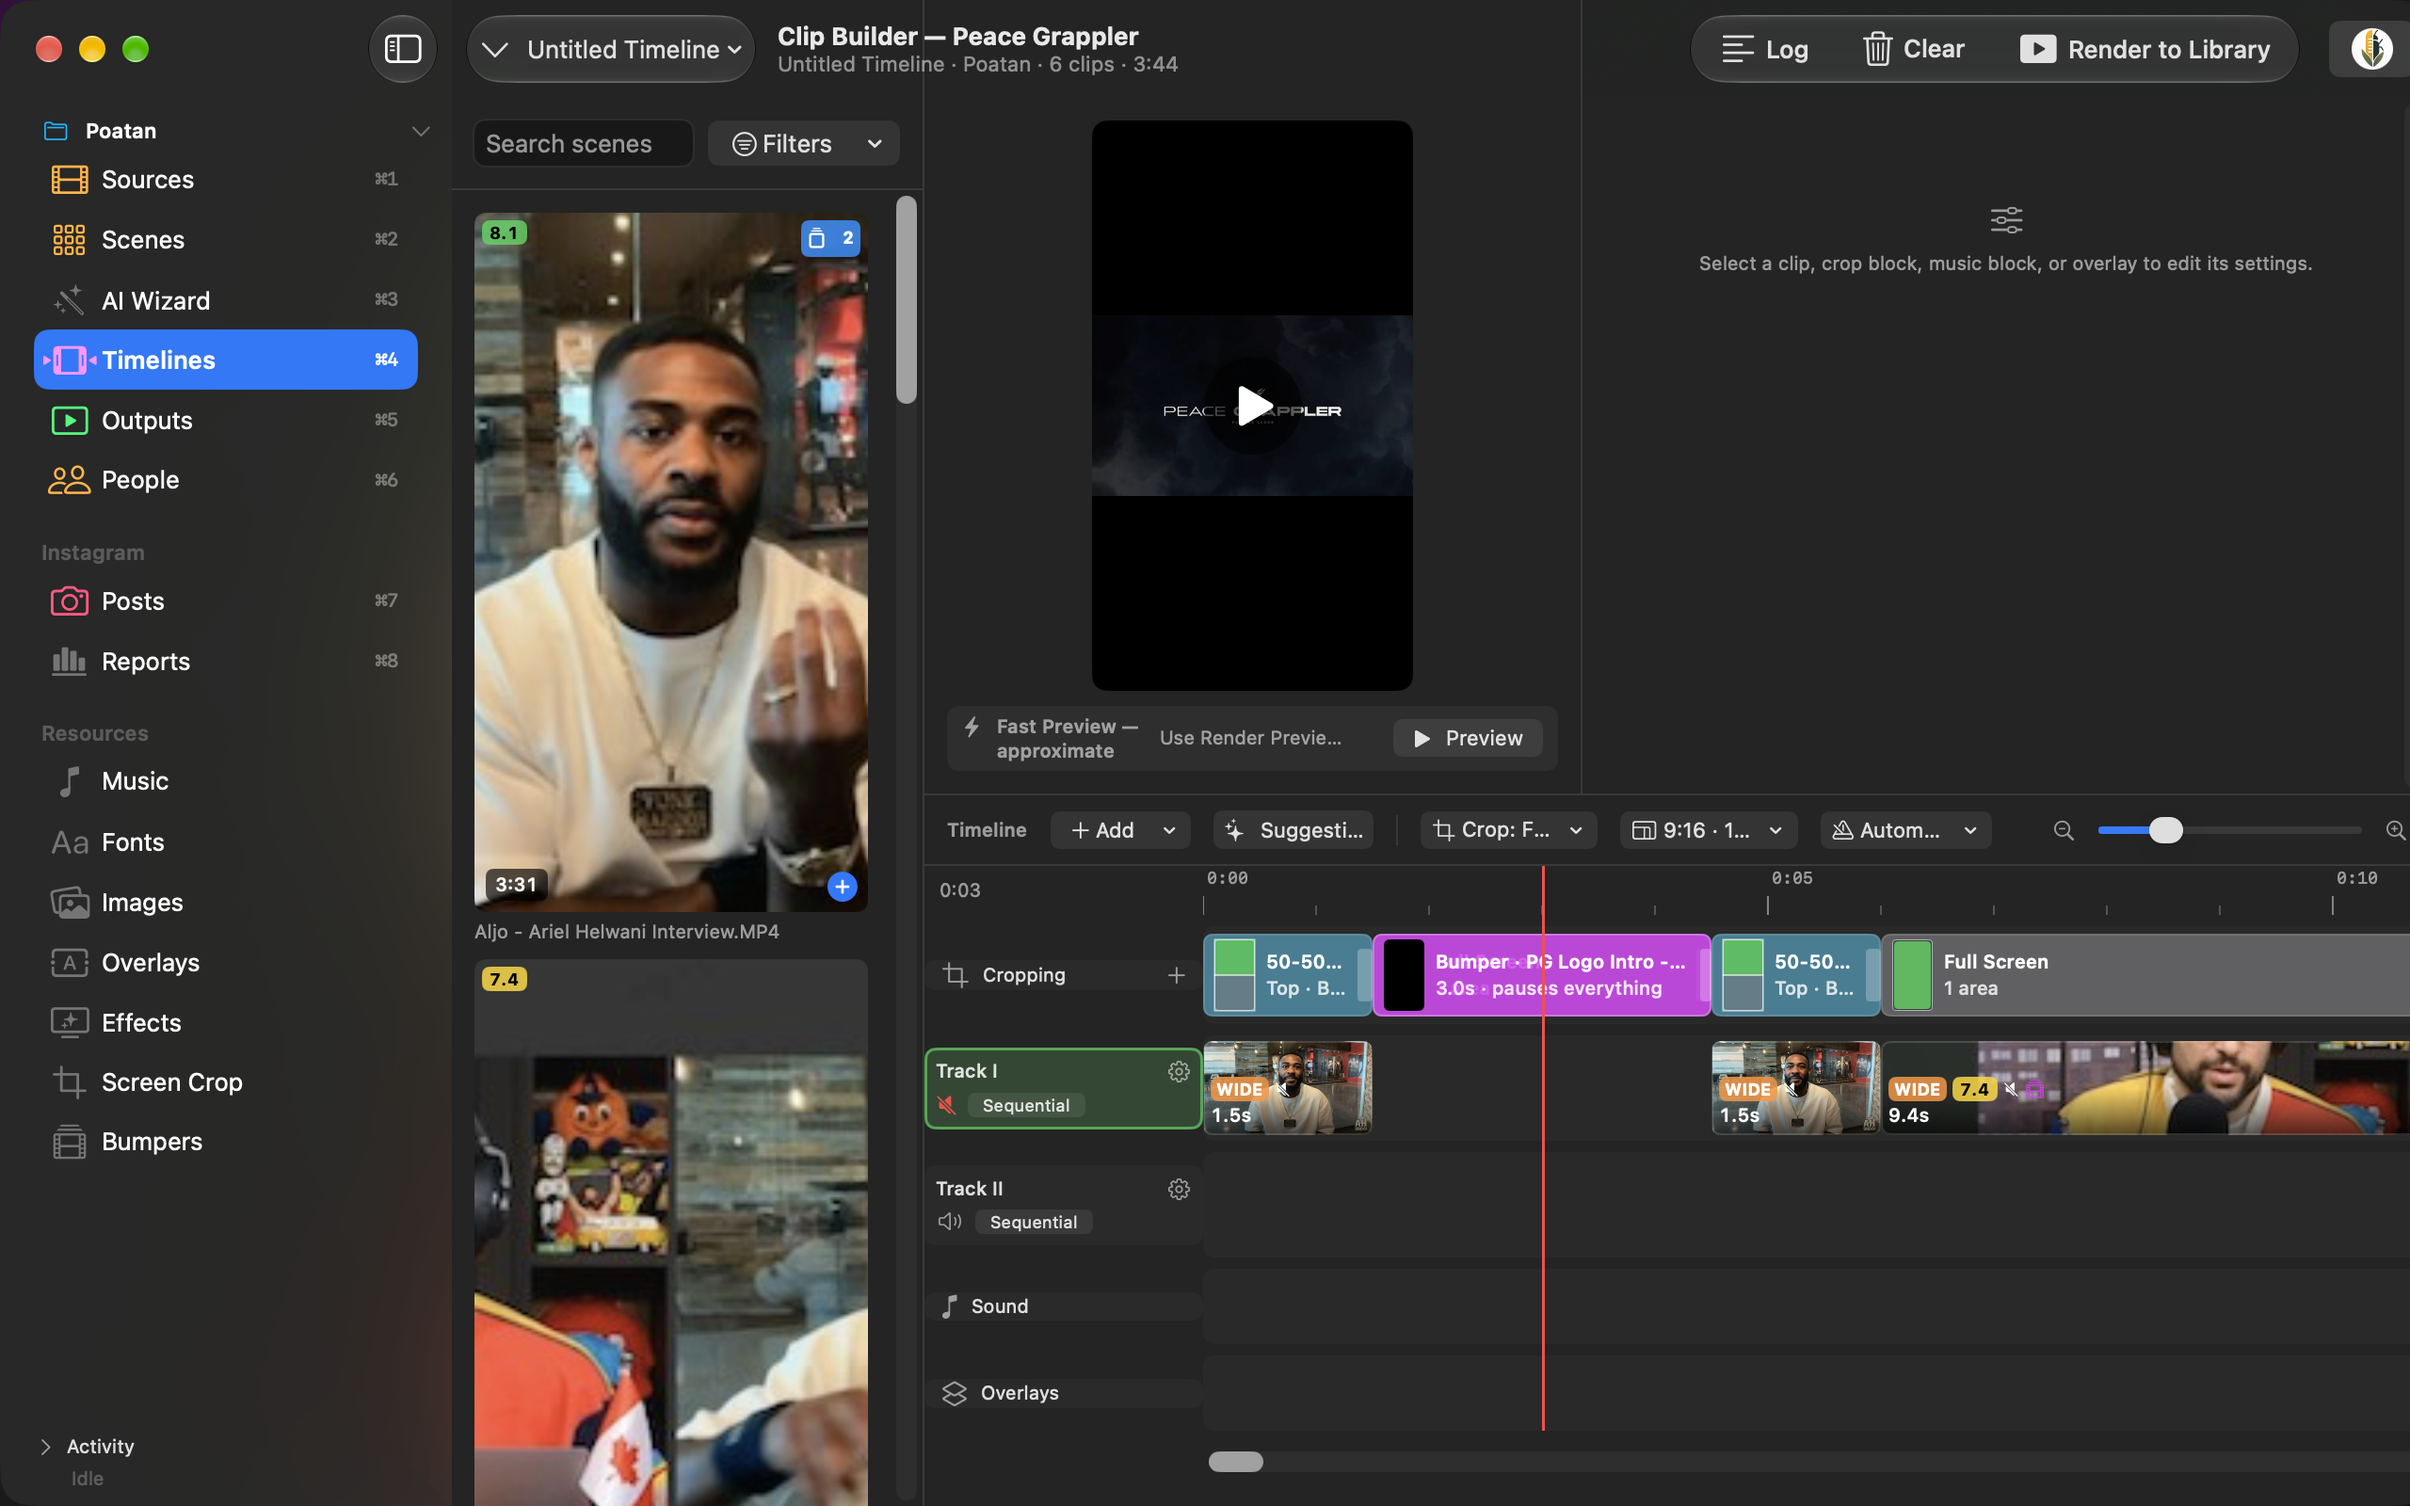
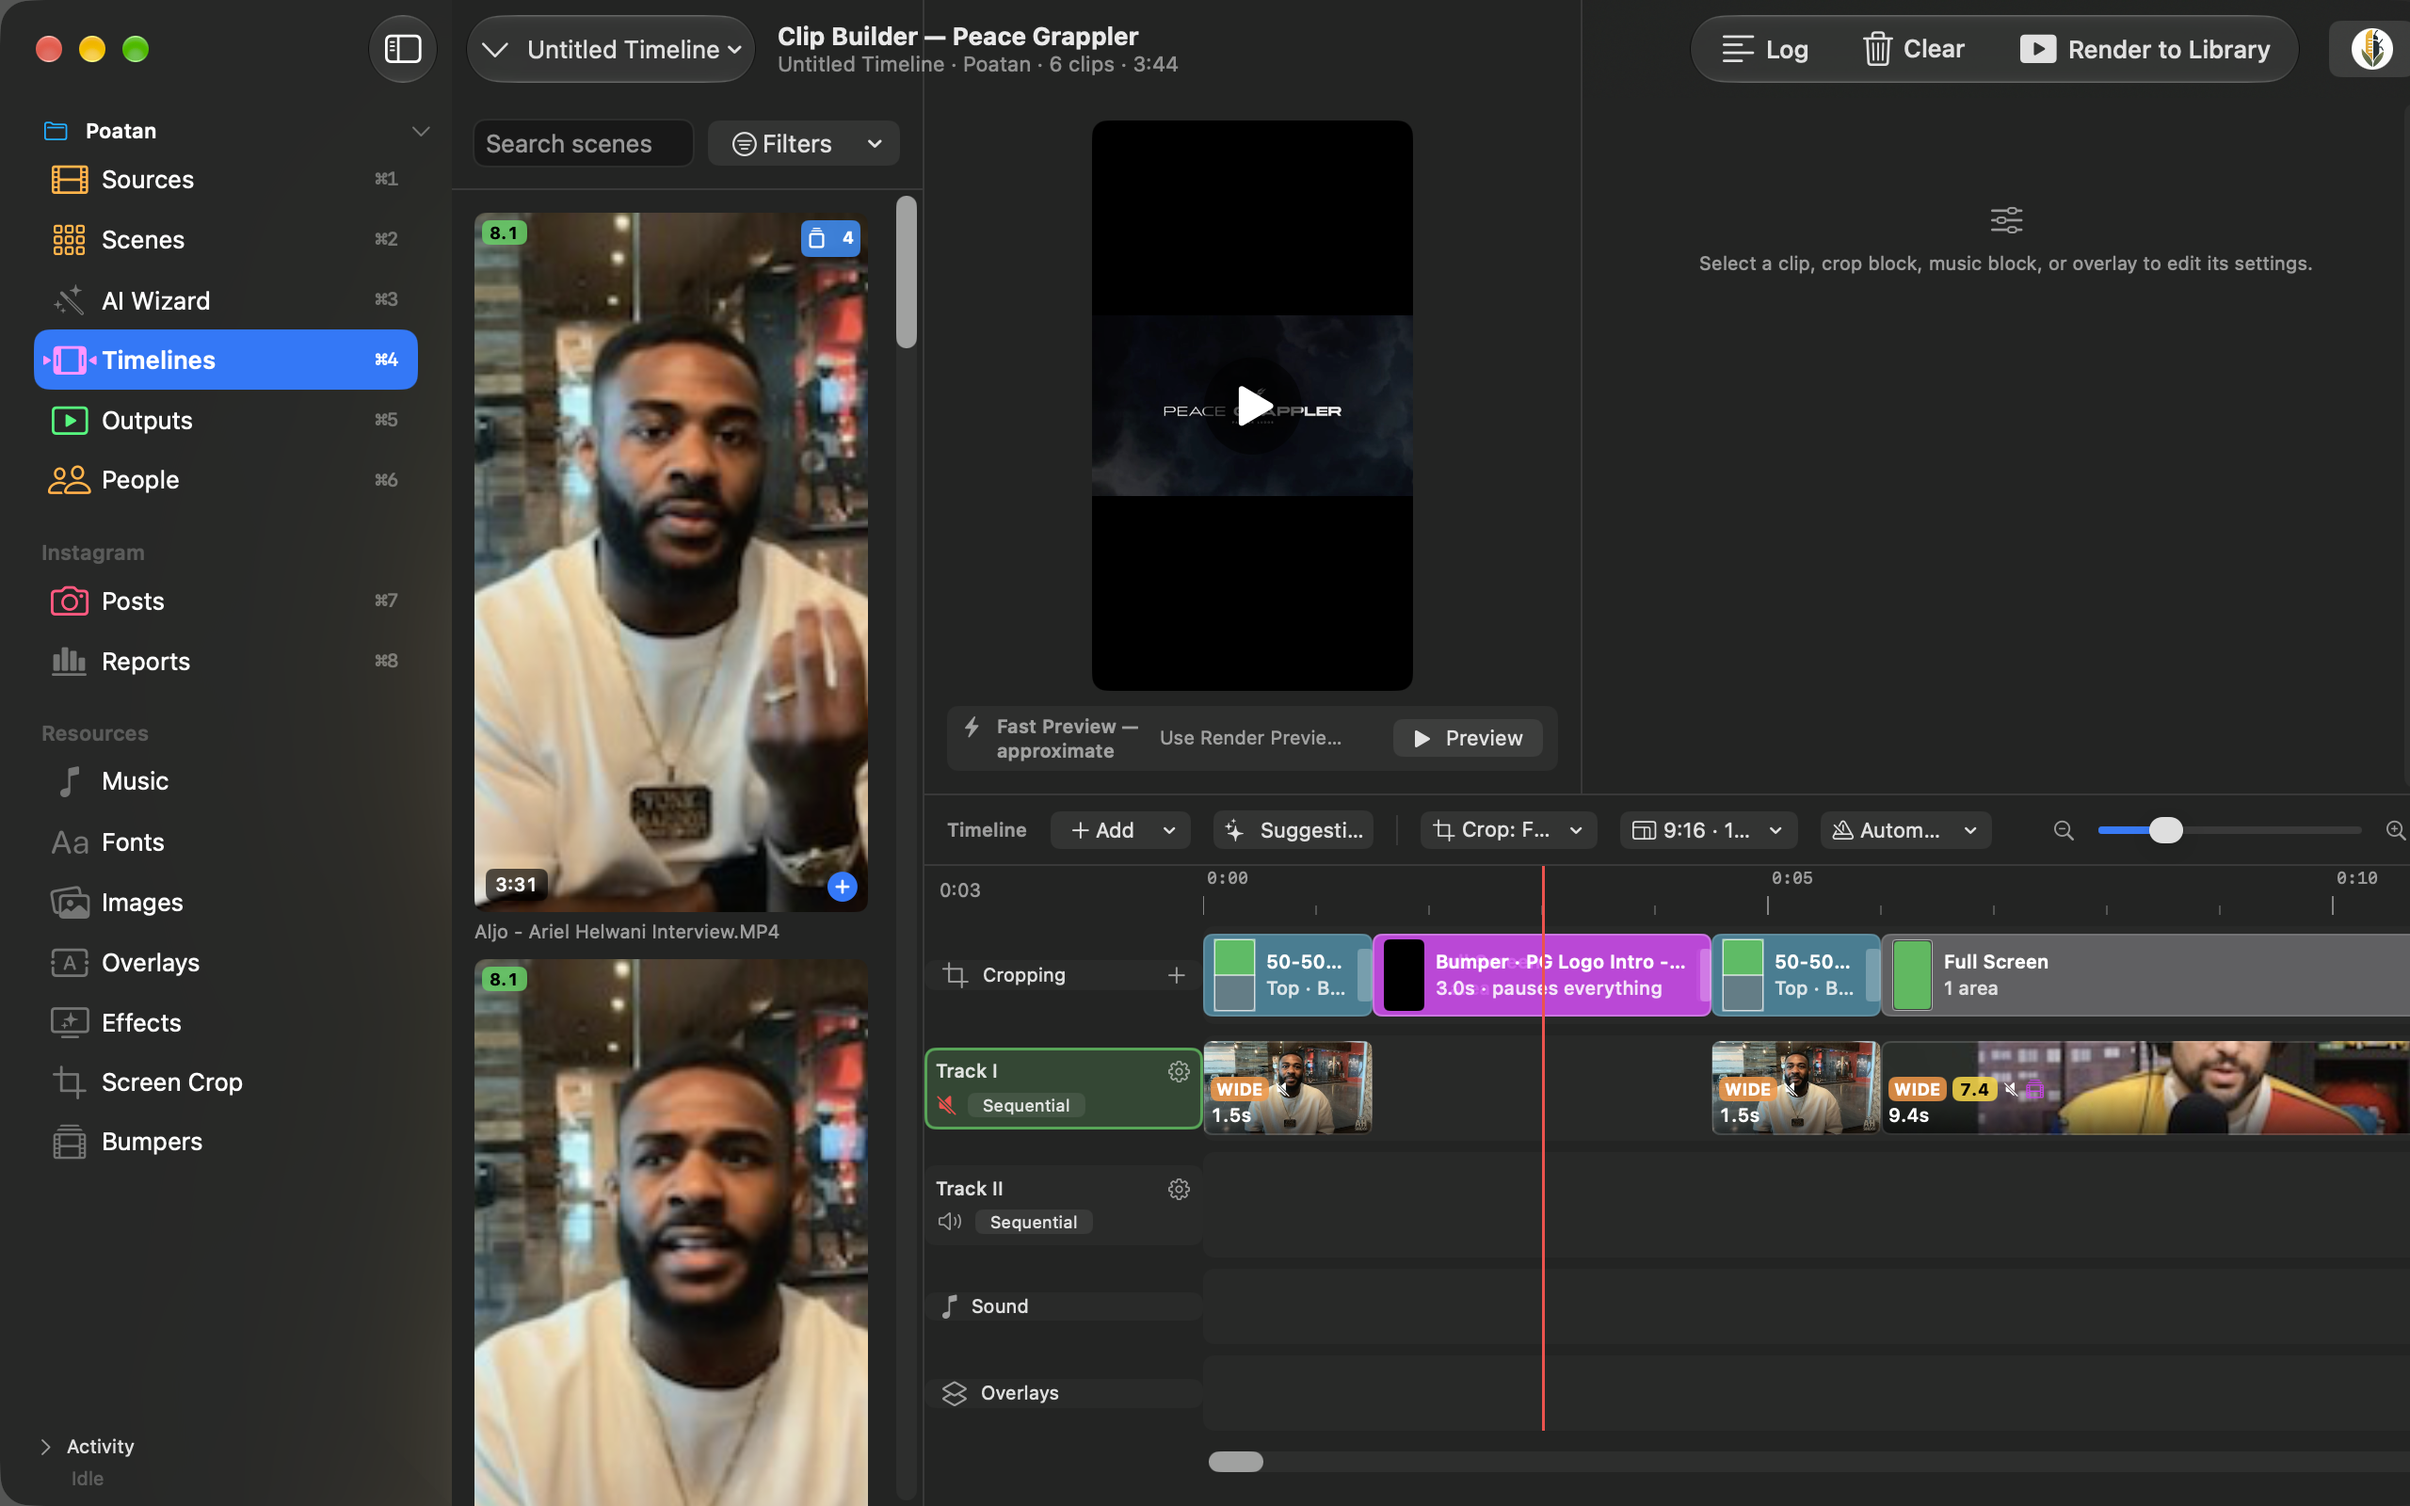
Release 1.57 (build 59)

Changed region(s): [[0.1875, 0.625, 0.375, 1.0], [0.375, 0.2188, 0.4062, 0.25]]

diff --git a/docs/ClipBuilder-Getting-Started.html b/docs/ClipBuilder-Getting-Started.html
@@ -99,7 +99,7 @@
 
 <h2>1. Install the App</h2>
 <ol>
-    <li>Download <code>ClipBuilder-1.56.pkg</code> from the
+    <li>Download <code>ClipBuilder-1.57.pkg</code> from the
         <a href="https://github.com/abghandour/ClipBuilder/releases">GitHub Releases page</a>.</li>
     <li>Double-click the downloaded <code>.pkg</code> file and follow the installer. The installer is signed and notarized by Apple, so no security warnings appear. You'll be asked for your Mac password to install.</li>
     <li>When the installer finishes, a <span class="step-label">Terminal window opens automatically</span> to complete setup. It installs everything Clip Builder needs and walks you through the first-time configuration:
@@ -206,7 +206,7 @@
 <h2>You're Ready</h2>
 <p>Point your <em>Input folder</em> at some footage, open the <em>Analyze</em> tab to scan and tag scenes, then use the <em>Wizard</em> or <em>Builder</em> to assemble and export clips.</p>
 
-<footer>Clip Builder 1.56 — Getting Started Guide · July 2026</footer>
+<footer>Clip Builder 1.57 — Getting Started Guide · July 2026</footer>
 
 </body>
 </html>
